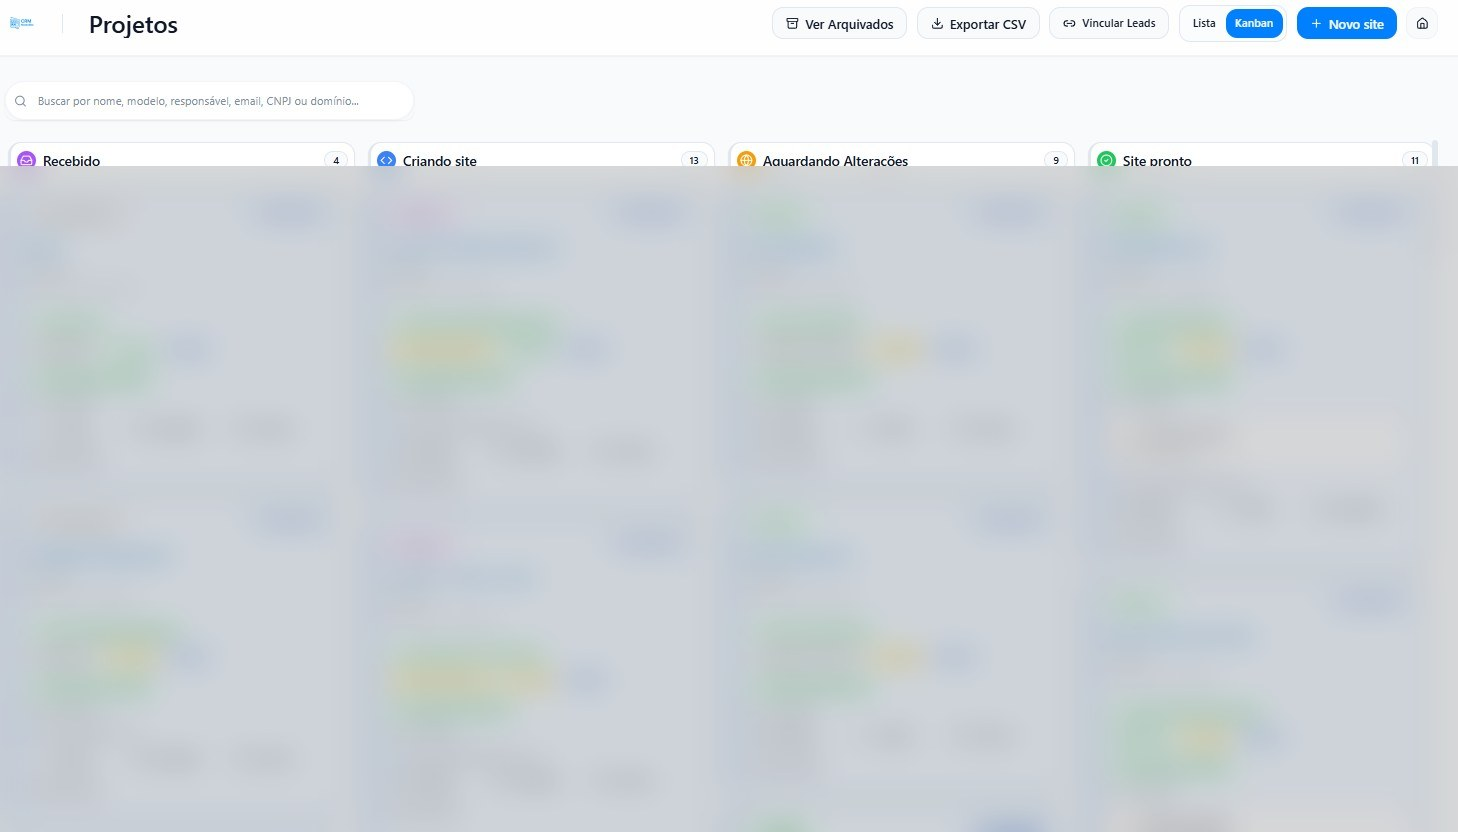
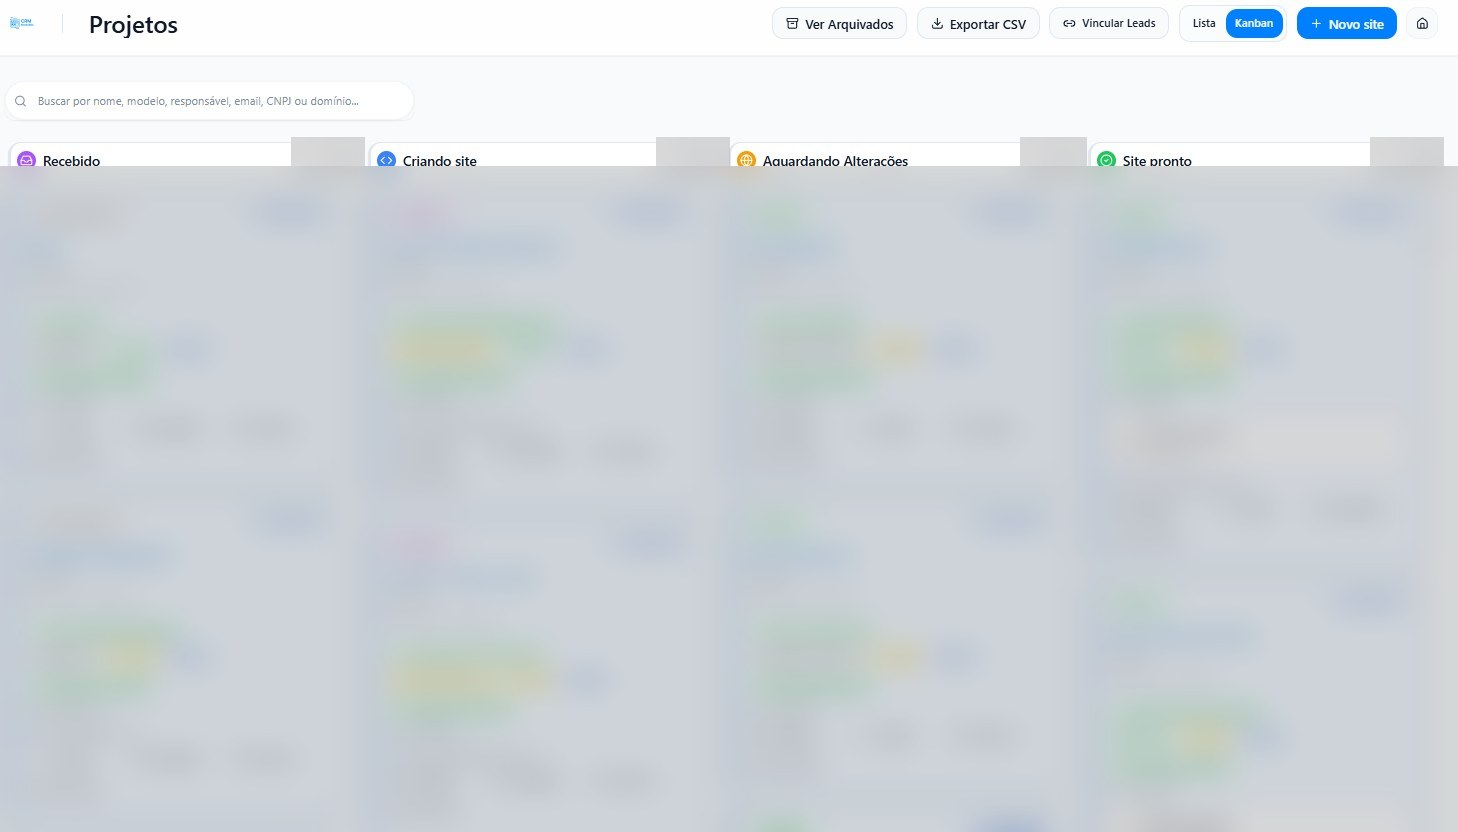
fix: tira do ar prints antigos com dados reais e corrige afirmações, links e prévia
Remove public/screenshots e public/images (prints antigos com números não
medidos e nomes de clientes) e o index.html antigo com projetos fictícios;
tira layout2 (números internos) e borra os contadores que faltavam; corrige
afirmações sem prova; logo, favicons e imagem de compartilhamento com a base
/Portifolio/; botão de demo vira link; contador do filtro conta só os visíveis.

diff --git a/scripts/borrar_regioes.py b/scripts/borrar_regioes.py
@@ -2,9 +2,15 @@
 Borra regioes de prints que mostram dados reais (nomes de clientes, numeros de
 negocio, dados de pagamento), mantendo a tela reconhecivel.
 
-Uso: python scripts/borrar_regioes.py
-As regioes sao fracoes (x0, y0, x1, y1) da largura e da altura de cada imagem.
+Uso:
+    python scripts/borrar_regioes.py --origem PASTA_COM_OS_ORIGINAIS
+
+Le cada imagem ORIGINAL (sem borrao) pelo nome de arquivo em --origem e grava a
+versao borrada no caminho do site. Assim, rodar de novo nunca borra duas vezes.
+Os originais ficam fora do repositorio. As regioes sao fracoes (x0, y0, x1, y1)
+da largura e da altura de cada imagem.
 """
+import argparse
 from pathlib import Path
 
 from PIL import Image, ImageDraw, ImageFilter
@@ -16,19 +22,24 @@ REGIOES = {
         (0.32, 0.71, 0.40, 0.80), (0.545, 0.71, 0.615, 0.80), (0.745, 0.71, 0.83, 0.80),
         (0.32, 0.87, 0.40, 0.96), (0.545, 0.87, 0.615, 0.96), (0.745, 0.87, 0.83, 0.96),
     ],
-    # Kanban: todo o conteudo dos cartoes (clientes, responsaveis, dominios)
-    "public/projects/crmontesite/crm2.jpg": [(0.0, 0.20, 1.0, 1.0)],
+    # Kanban: contagem de cada coluna e todo o conteudo dos cartoes (clientes, responsaveis, dominios)
+    "public/projects/crmontesite/crm2.jpg": [
+        (0.20, 0.165, 0.25, 0.205), (0.45, 0.165, 0.50, 0.205), (0.70, 0.165, 0.745, 0.205),
+        (0.94, 0.165, 0.99, 0.205), (0.0, 0.20, 1.0, 1.0),
+    ],
     # Leads: numeros do topo, total encontrado e o corpo da tabela
     "public/projects/crmontesite/crm3.jpg": [(0.0, 0.165, 1.0, 0.26), (0.0, 0.425, 0.32, 0.475), (0.0, 0.50, 1.0, 1.0)],
-    # Layouts: a coluna Projeto (nomes de clientes)
-    "public/projects/gestaolayoutssheets/layout1.jpg": [(0.10, 0.47, 0.26, 1.0)],
+    # Layouts: contadores do topo, total de registros e a coluna Projeto (nomes de clientes)
+    "public/projects/gestaolayoutssheets/layout1.jpg": [
+        (0.0, 0.23, 1.0, 0.35), (0.85, 0.37, 1.0, 0.42), (0.10, 0.47, 0.26, 1.0),
+    ],
     # Checkout: a linha do cartao salvo
     "public/projects/certificadopj/certificado2.jpg": [(0.58, 0.53, 0.95, 0.615)],
 }
 
 
-def borrar(caminho: Path, regioes) -> None:
-    imagem = Image.open(caminho).convert("RGB")
+def borrar(origem: Path, destino: Path, regioes) -> None:
+    imagem = Image.open(origem).convert("RGB")
     largura, altura = imagem.size
     for x0, y0, x1, y1 in regioes:
         caixa = (int(x0 * largura), int(y0 * altura), int(x1 * largura), int(y1 * altura))
@@ -37,10 +48,16 @@ def borrar(caminho: Path, regioes) -> None:
         camada = Image.new("RGBA", imagem.size, (0, 0, 0, 0))
         ImageDraw.Draw(camada).rectangle(caixa, fill=(120, 120, 120, 70))
         imagem = Image.alpha_composite(imagem.convert("RGBA"), camada).convert("RGB")
-    imagem.save(caminho, quality=88)
+    imagem.save(destino, quality=88)
 
 
 if __name__ == "__main__":
+    parser = argparse.ArgumentParser(description="Borra dados reais nos prints do portfólio")
+    parser.add_argument("--origem", type=Path, required=True, help="pasta com as imagens originais, sem borrão")
+    args = parser.parse_args()
     for relativo, regioes in REGIOES.items():
-        borrar(RAIZ / relativo, regioes)
+        original = args.origem / Path(relativo).name
+        if not original.is_file():
+            raise SystemExit(f"original não encontrado: {original}")
+        borrar(original, RAIZ / relativo, regioes)
         print("borrado:", relativo)

diff --git a/src/content/projects/jobsweeper.md b/src/content/projects/jobsweeper.md
@@ -4,7 +4,7 @@ year: 2026
 category: IA aplicada / Automação / Dados
 description: Robô pessoal que busca vagas, dá nota de compatibilidade com o meu perfil e gera um currículo ATS de uma página para cada vaga, sem inventar nada. Mais de 640 testes automatizados.
 color: "#00FFA3"
-technologies: ["Python", "Flask", "Playwright", "SQLite", "pytest", "Claude (Anthropic)", "HTML", "CSS", "JavaScript"]
+technologies: ["Python", "Flask", "Playwright", "SQLite", "pytest", "Replicate (Llama 3)", "HTML", "CSS", "JavaScript"]
 link: null
 order: 1
 areas: [ia, dev, dados]
@@ -44,8 +44,8 @@ Buscar vagas, ler cada descrição e montar um currículo diferente para cada um
 ### 🧠 Decisões que importam
 
 - **Nunca inventar:** o currículo de cada vaga só reorganiza e destaca o que já está no currículo mestre; o que falta aparece como lacuna, não como habilidade.
-- **Teste antes do código:** cada regra de nota, cada filtro de vaga e cada formato de arquivo nasceu de um teste que falhava primeiro.
-- **Dados locais:** dados pessoais ficam fora do git; nada sai da máquina sem eu pedir.
+- **Testes como rede de segurança:** as regras de nota, os filtros de vaga e os formatos de arquivo têm testes automatizados, e as partes mais recentes foram escritas com o teste antes do código.
+- **Dados locais:** dados pessoais ficam fora do git e só vão para os serviços que eu configurei (busca de vagas e IA).
 
 ## Stack Técnico
 
@@ -53,7 +53,7 @@ Buscar vagas, ler cada descrição e montar um currículo diferente para cada um
 - **SQLite** — fila de vagas e histórico
 - **Playwright** — automação de navegador e geração dos PDFs
 - **pytest** — mais de 640 testes automatizados
-- **LLM (API da Anthropic/Claude)** — análise de perfil
+- **LLM (Llama 3 via Replicate)** — análise de perfil
 - Desenvolvido com **Claude Code** e **Codex**, com revisão de código por um segundo modelo a cada parte
 
 ## Status

diff --git a/src/content/projects/certificadopj.md b/src/content/projects/certificadopj.md
@@ -263,10 +263,8 @@ Google Sheets → Relatórios → KPIs → Otimização
    - Exact Spotter facilita prospecção coordenada
    - Pipeline visível em tempo real
 
-4. **Revenue Impact:**
-   - Redução no CAC (Customer Acquisition Cost) do eGestor
-   - Aumento na taxa de conversão PJ → SaaS
-   - Receita dupla: certificado + contrato eGestor
+4. **Objetivo comercial:**
+   - Cada compra de certificado também gerava um lead qualificado para o SaaS do eGestor
 
 ---
 
@@ -303,4 +301,4 @@ Google Sheets → Relatórios → KPIs → Otimização
 
 O **Certificado PJ** exemplifica como um e-commerce bem arquitetado pode ser muito mais que um canal de vendas diretas — é uma **máquina de geração e qualificação de leads** para produtos complementares. A automação end-to-end elimina atritos manuais, garante dados de alta qualidade e permite que o time de SDRs foque em vendas, não em entrada de dados.
 
-A combinação de WordPress + Stripe + Make.com + RD Station provou ser robusta, escalável e economicamente viável, servindo como modelo para outros fluxos de lead generation na empresa.
+A combinação de WordPress + Stripe + Make.com + RD Station funcionou de ponta a ponta, do checkout às integrações de CRM, mesmo com o projeto descontinuado depois.

diff --git a/src/content/projects/crmontesite.md b/src/content/projects/crmontesite.md
@@ -1,7 +1,7 @@
 ---
 title: CRM Monte Site
 year: 2024
-category: Plataforma SaaS / Gestão Empresarial
+category: Sistema interno / CRM / Gestão de Projetos
 description: Sistema completo de CRM para gestão de projetos, leads e vendas. Integra painel de vendas em tempo real, gerenciamento de clientes, personalização de sites e integrações com Hostinger.
 color: "#3b82f6"
 technologies: ["React", "TypeScript", "TailwindCSS", "Supabase", "shadcn/ui"]
@@ -40,11 +40,10 @@ Facilitar o fluxo de trabalho de equipes de vendas e desenvolvimento, desde a ca
 
 ### 👥 Público-Alvo
 
-**Equipe de desenvolvimento e de suporte pois podem controlar os projetos de sites e clientes através do sistema por kanban:**
-- Agências de criação de websites
-- Empresas de consultoria digital
-- Prestadores de serviço (desenvolvedores, designers)
-- Pequenas e médias empresas (PMEs)
+Ferramenta interna, usada pelos times que tocam a frente de sites institucionais:
+- **Vendas:** acompanham leads e o funil
+- **Desenvolvimento:** controlam cada site no kanban, do pedido ao site no ar
+- **Suporte:** consultam o status de cada cliente e projeto
 
 ### ⚡ Benefícios Principais
 

diff --git a/src/content/projects/colar.md b/src/content/projects/colar.md
@@ -219,7 +219,7 @@ Cada grupo é isolado e apenas seus membros têm acesso aos dados.
 ## Aprendizados
 
 1. **Supabase RLS é poderoso:** Segurança ao nível do banco de dados
-2. **Dark mode melhora UX:** Usuários passam mais tempo na aplicação
+2. **Modo escuro desde o início:** mais simples do que adaptar o tema depois
 3. **Gráficos motivam:** Visualizar dados financeiros inspira melhor gestão
 4. **Colaboração é complexa:** Múltiplos usuários exigem sincronização cuidadosa
 5. **Templates Jinja2 flexíveis:** Renderização dinâmica facilita prototipagem rápida
@@ -228,7 +228,7 @@ Cada grupo é isolado e apenas seus membros têm acesso aos dados.
 
 ## Próximas Etapas
 
-- [ ] Deploy em produção (Heroku/Render)
+- [ ] Domínio próprio e hospedagem definitiva (hoje em beta na Vercel)
 - [ ] Testes automatizados e CI/CD
 - [ ] Performance profiling e otimizações
 - [ ] Feedback de usuários iniciais

diff --git a/src/content/projects/gestaolayoutssheets.md b/src/content/projects/gestaolayoutssheets.md
@@ -7,7 +7,7 @@ color: "#22c55e"
 technologies: ["React", "TypeScript", "TailwindCSS", "Supabase", "shadcn/ui", "Vite", "Google Sheets API"]
 link: null
 order: 3
-images: ["/projects/gestaolayoutssheets/layout1.jpg", "/projects/gestaolayoutssheets/layout2.jpg"]
+images: ["/projects/gestaolayoutssheets/layout1.jpg"]
 areas: [dev, dados]
 ---
 
@@ -133,7 +133,6 @@ Desenvolvido com **Lovable** (plataforma de IA para web apps) e refinado com aju
 - Exportar layouts em PDF
 - Gerar relatórios customizáveis
 - Agendar exportações automáticas
-- Email com relatórios em anexo
 - Múltiplos formatos (PDF, CSV, Excel)
 
 ### 6. Sincronização Automática

diff --git a/README.md b/README.md
@@ -41,7 +41,7 @@ npm run build   # gerar o site em dist/
 npm run preview # ver o build
 ```
 
-Para borrar dados reais em um print novo: `python scripts/borrar_regioes.py` (as regiões ficam no próprio script).
+Para borrar dados reais em um print novo: guarde o original fora do repositório, acrescente as regiões em `scripts/borrar_regioes.py` e rode `python scripts/borrar_regioes.py --origem PASTA_DOS_ORIGINAIS`.
 
 ---
 

diff --git a/src/content/projects/expert-egestor.md b/src/content/projects/expert-egestor.md
@@ -56,7 +56,6 @@ Simplificar o processo de treinamento corporativo, permitindo que gestores criem
 
 **Características:**
 - Responsive design (mobile, tablet, desktop)
-- Acessibilidade (WCAG compliance)
 - Performance otimizada
 
 ### Backend
